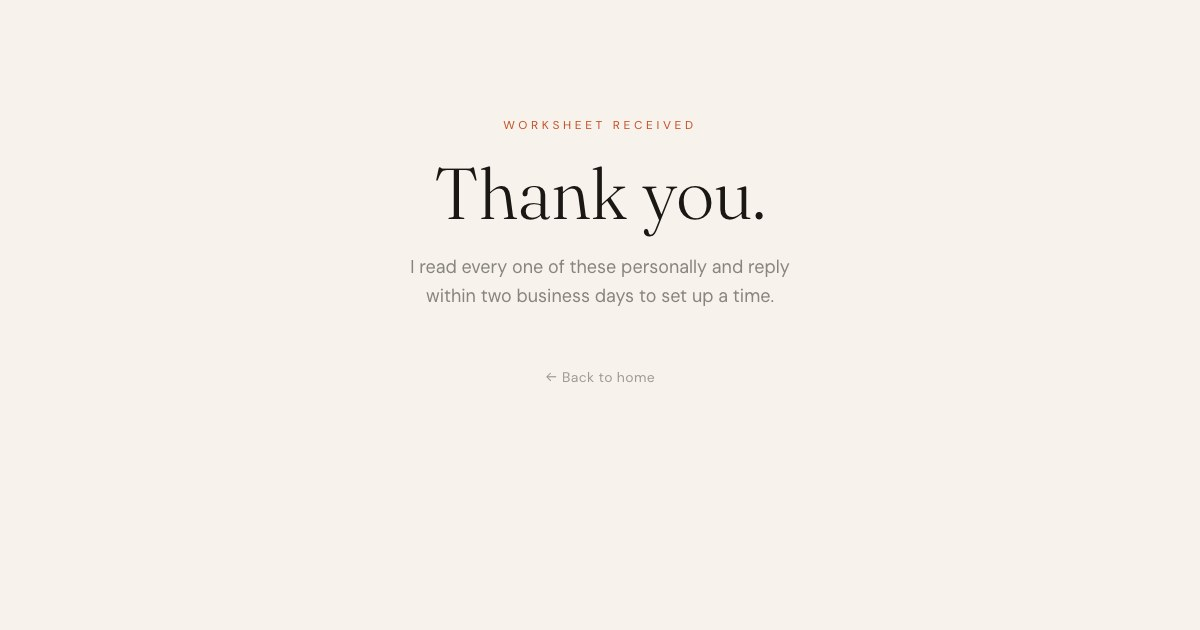
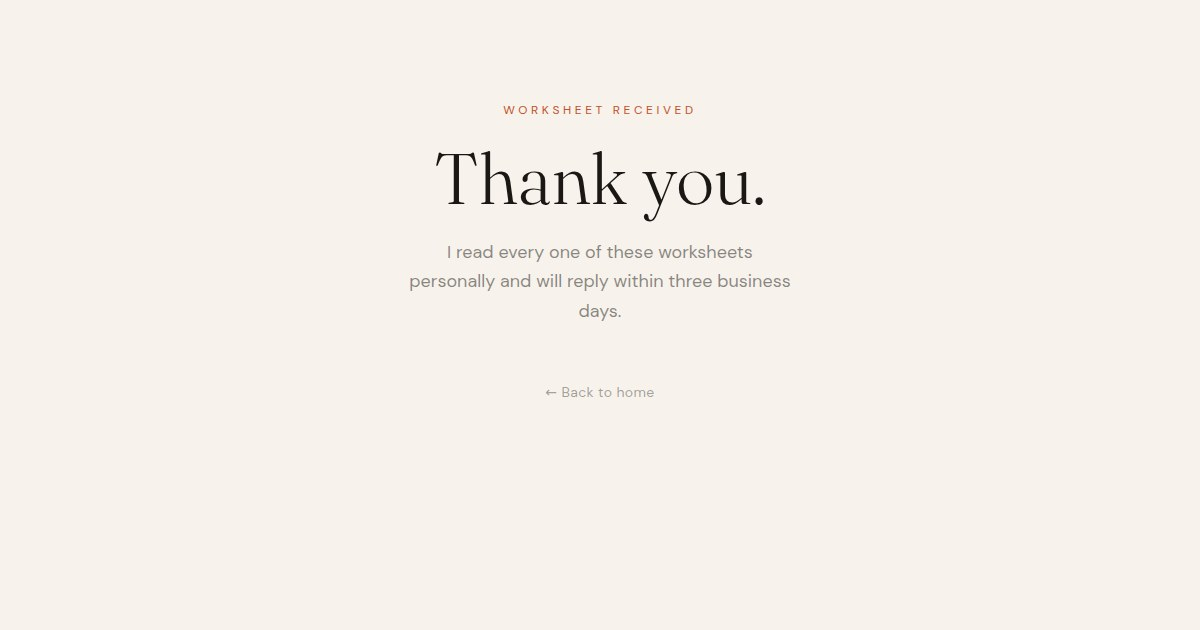
Revise archive worksheet copy per issue #352
Applies the copy edits requested in benstraw/chill-dogs#352 to the family
archive intake worksheet: reworks the intro and expectations panel, retitles
the section headings to title case, tightens several field labels, hints and
radio options, and trims the budget select to a single "More than $20,000"
top band. Removes the sibling line from the "why now" placeholder and the
third example from the audience placeholder. The privacy note moves from the
signature line up next to the submit button, where the reply window is now
three business days.

Obvious spelling in the issue text ("questionaire", "gueses", "necesssary")
is corrected — it is public-facing copy.

Also, on the same page:

- The submit button rendered invisible. Tailwind's preflight sets
  background-color:transparent on [type=submit], which outranks a bare
  `button` selector, so the CTA was paper on paper; the rule now names the
  attribute.
- The thanks page body and the page description repeated the old framing
  ("ten minutes", "two business days"), so they follow the new copy. The two
  OG cards are regenerated for the changed description.
- Registers /archive-worksheet/ in docs/site-system.yaml, which the page was
  missing from.

Claude-Session: https://claude.ai/code/session_01TWvscUwpW7yuXNsNetiEJC

diff --git a/layouts/archive-worksheet/list.html b/layouts/archive-worksheet/list.html
@@ -114,12 +114,15 @@ select{appearance:none;background-image:linear-gradient(45deg,transparent 50%,va
 
 /* --- submit --- */
 .actions{border-top:2px solid var(--ink);padding-top:1.5rem;margin-top:2.5rem}
-button{
+/* Tailwind's preflight sets background-color:transparent on [type=submit],
+   which outranks a bare `button` selector — name the attribute here or the
+   CTA renders invisible (paper on paper). */
+button[type=submit]{
   font-family:inherit;font-size:.95rem;font-weight:600;letter-spacing:.02em;
   background:var(--ink);color:var(--paper);border:none;border-radius:var(--radius);
   padding:.8rem 1.6rem;cursor:pointer;transition:background .15s
 }
-button:hover{background:var(--warm)}
+button[type=submit]:hover{background:var(--warm)}
 .after{font-size:.88rem;color:var(--ink-faint);margin:.9rem 0 0}
 .sig{margin-top:3rem;padding-top:1.25rem;border-top:1px solid var(--rule);font-size:.82rem;color:var(--ink-faint)}
 .sig a{color:var(--warm)}
@@ -145,17 +148,17 @@ button:hover{background:var(--warm)}
 <header class="masthead">
   <a class="brand" href="/">Arts-Link &middot; Family Archive</a>
   <h1>Project Worksheet</h1>
-  <p class="dek">Ten minutes here saves an hour on our call. Rough answers are fine — estimates and &ldquo;I don&rsquo;t know&rdquo; are both useful. Nothing you put down is binding.</p>
+  <p class="dek">Please fill out this questionnaire prior to our initial call. Estimates and rough guesses are fine. Nothing you put down is binding.</p>
 </header>
 
 <div class="expect">
   <h2>Before you start — what to expect</h2>
   <ul>
-    <li><strong>The first conversation is free.</strong> I&rsquo;ll review this worksheet, talk with you for about 45 minutes, and send back a written plan with real numbers.</li>
-    <li><strong>Most projects run $5,000–$8,000</strong> for my work, plus roughly $1,000–$2,500 paid directly to the scanning lab. Smaller collections cost less; we&rsquo;ll size yours together.</li>
-    <li><strong>Plan on 3–6 months end to end.</strong> Most of that is lab turnaround and your family&rsquo;s time, not mine.</li>
-    <li><strong>You never ship anything to me.</strong> I help you choose a lab and write the spec; your originals go straight there and come straight back to you.</li>
-    <li><strong>The work happens in stages,</strong> and you approve the price for each one before it starts. You can stop at any stage and still keep everything finished so far.</li>
+    <li><strong>The first conversation is free.</strong> I&rsquo;ll review this worksheet, talk with you for about 45 minutes, and submit a written plan with a fee structure.</li>
+    <li><strong>Most projects run $5,000–$8,000</strong> for my work, plus roughly $1,000–$2,500 paid directly to the scanning lab (if your material is not already scanned). Smaller collections cost less. We&rsquo;ll size yours together.</li>
+    <li><strong>Plan on 3–6 months end to end.</strong> Most of that is lab turnaround time and time spent by your family compiling material.</li>
+    <li><strong>You never ship anything to me.</strong> I help you choose a lab for scanning (if necessary) and write the spec. Your original material goes straight there and is returned straight back to you.</li>
+    <li><strong>The work happens in stages,</strong> and you approve the price for each stage before it starts. You can stop after any stage and you keep everything finished up to that point.</li>
   </ul>
 </div>
 
@@ -165,7 +168,7 @@ button:hover{background:var(--warm)}
 <input class="hp" type="text" name="_gotcha" tabindex="-1" autocomplete="off" aria-hidden="true">
 
 <section>
-  <div class="sec-head"><span class="num">01</span><h2 class="sec">Who you are</h2></div>
+  <div class="sec-head"><span class="num">01</span><h2 class="sec">Who You Are</h2></div>
   <div class="grid2">
     <div class="field"><label for="name">Your name</label><input type="text" id="name" name="name" required autocomplete="name"></div>
     <div class="field"><label for="email">Email</label><input type="email" id="email" name="email" required autocomplete="email"></div>
@@ -175,18 +178,18 @@ button:hover{background:var(--warm)}
     <div class="field"><label for="where">Where do you live?</label><input type="text" id="where" name="city_state" placeholder="City, State" autocomplete="address-level2"></div>
   </div>
   <div class="field">
-    <label for="materials_where">Where do the materials physically live right now?</label>
+    <label for="materials_where">Where are the materials located?</label>
     <input type="text" id="materials_where" name="materials_location" placeholder="My basement / my mother's house in Ohio / split between three siblings">
   </div>
   <div class="field">
-    <label for="who_decides">Who else needs to agree before this project goes ahead?</label>
+    <label for="who_decides">Who else needs to approve this project before it proceeds?</label>
     <input type="text" id="who_decides" name="decision_makers" placeholder="Just me / me and my two brothers / the family trust">
   </div>
 </section>
 
 <section>
-  <div class="sec-head"><span class="num">02</span><h2 class="sec">What you have</h2></div>
-  <p class="hint">Guess. A shoebox holds roughly 300–500 loose photos; a full album is usually 100–200. If a category doesn&rsquo;t apply, leave it at &ldquo;None.&rdquo;</p>
+  <div class="sec-head"><span class="num">02</span><h2 class="sec">What You Have</h2></div>
+  <p class="hint">Guesses and estimates are fine. A shoebox holds roughly 300–500 loose photos. A full album is usually 100–200 photos. If a category doesn&rsquo;t apply, leave it at &ldquo;None.&rdquo;</p>
   <div class="inv">
     <div class="inv-row"><div class="inv-label"><label for="qty_loose_photos">Loose printed photos</label><small>Boxes, envelopes, drawers</small></div>
       <select id="qty_loose_photos" name="qty_loose_photos"><option>None</option><option>Under 200</option><option>200–500</option><option>500–1,500</option><option>1,500–4,000</option><option>4,000–10,000</option><option>More than 10,000</option><option>No idea</option></select></div>
@@ -212,7 +215,7 @@ button:hover{background:var(--warm)}
 </section>
 
 <section>
-  <div class="sec-head"><span class="num">03</span><h2 class="sec">Condition</h2></div>
+  <div class="sec-head"><span class="num">03</span><h2 class="sec">Condition of Material</h2></div>
   <fieldset class="field">
     <legend>How would you describe the overall state of things?</legend>
     <div class="choices">
@@ -229,33 +232,33 @@ button:hover{background:var(--warm)}
 </section>
 
 <section>
-  <div class="sec-head"><span class="num">04</span><h2 class="sec">Why now</h2></div>
+  <div class="sec-head"><span class="num">04</span><h2 class="sec">Why Now</h2></div>
   <div class="field">
-    <label for="why">What&rsquo;s prompting this?</label>
-    <textarea id="why" name="why_now" placeholder="My father died last year and the boxes are in my garage. My mother is 88 and still remembers everyone. My siblings and I want the same thing for once."></textarea>
+    <label for="why">What is prompting this project?</label>
+    <textarea id="why" name="why_now" placeholder="My father died last year and the boxes are in my garage. My mother is 88 and still remembers everyone."></textarea>
   </div>
   <div class="grid2">
     <div class="field">
-      <label for="deadline">Is there a date this needs to be ready for?</label>
+      <label for="deadline">Is there a date by which this needs to be completed?</label>
       <input type="text" id="deadline" name="deadline" placeholder="Mom's 90th in June / no deadline">
     </div>
     <div class="field">
       <label for="audience">Who is the finished archive for?</label>
-      <input type="text" id="audience" name="audience" placeholder="Six cousins and their kids / just me / the whole extended family">
+      <input type="text" id="audience" name="audience" placeholder="Six cousins and their kids / just me">
     </div>
   </div>
 </section>
 
 <section>
-  <div class="sec-head"><span class="num">05</span><h2 class="sec">Who can name people</h2></div>
+  <div class="sec-head"><span class="num">05</span><h2 class="sec">Who Can Identify People</h2></div>
   <p class="hint">This is the single biggest factor in how a family archive turns out. Software can group faces; only a person can say who they are.</p>
   <fieldset class="field">
     <legend>Is there someone living who can identify people in these photos?</legend>
     <div class="choices">
-      <label class="choice"><input type="radio" name="identifiers" value="Yes, sharp and available"><span>Yes — and they&rsquo;re sharp and willing to sit down for it</span></label>
+      <label class="choice"><input type="radio" name="identifiers" value="Yes, sharp and available"><span>Yes, and they are willing to do it</span></label>
       <label class="choice"><input type="radio" name="identifiers" value="Yes, but limited"><span>Yes, but time or memory is limited <small>We should prioritize accordingly.</small></span></label>
       <label class="choice"><input type="radio" name="identifiers" value="Partially - between us"><span>Partially — between several of us we could piece it together</span></label>
-      <label class="choice"><input type="radio" name="identifiers" value="No one left"><span>No one left who knows <small>Not a dead end. Handwriting on the backs, dates, and locations still carry a lot.</small></span></label>
+      <label class="choice"><input type="radio" name="identifiers" value="No one left"><span>No one left who knows <small>Handwriting on the backs of photos providing dates and locations may still be beneficial.</small></span></label>
     </div>
   </fieldset>
   <div class="field">
@@ -265,15 +268,15 @@ button:hover{background:var(--warm)}
   <fieldset class="field">
     <legend>Roughly how much time can your family give to naming people?</legend>
     <div class="choices">
-      <label class="choice"><input type="radio" name="family_time" value="Several sessions"><span>We&rsquo;ll show up for several sessions — this is the fun part</span></label>
+      <label class="choice"><input type="radio" name="family_time" value="Several sessions"><span>We&rsquo;ll show up for several sessions. This is the fun part!</span></label>
       <label class="choice"><input type="radio" name="family_time" value="A couple of sessions"><span>A couple of sessions, realistically</span></label>
-      <label class="choice"><input type="radio" name="family_time" value="Very little"><span>Very little — please keep our involvement minimal</span></label>
+      <label class="choice"><input type="radio" name="family_time" value="Very little"><span>Very little. Please keep our involvement to a minimum.</span></label>
     </div>
   </fieldset>
 </section>
 
 <section>
-  <div class="sec-head"><span class="num">06</span><h2 class="sec">What you want at the end</h2></div>
+  <div class="sec-head"><span class="num">06</span><h2 class="sec">What You Want at the End</h2></div>
   <fieldset class="field">
     <legend>Pick whichever sounds closest.</legend>
     <div class="choices">
@@ -284,24 +287,23 @@ button:hover{background:var(--warm)}
     </div>
   </fieldset>
   <div class="field">
-    <label for="must_have">If only one thing gets finished, what is it?</label>
+    <label for="must_have">Which part of the project is your first priority?</label>
     <input type="text" id="must_have" name="must_have" placeholder="The 8mm reels of my parents' wedding">
   </div>
 </section>
 
 <section>
   <div class="sec-head"><span class="num">07</span><h2 class="sec">Budget</h2></div>
-  <p class="hint">Asked so I can propose something real rather than something aspirational. There&rsquo;s a sensible version of this project at most budgets — and if the number is too far apart, better that we both know today.</p>
+  <p class="hint">Please estimate so I can propose something realistic. There are versions of most projects at most budgets.</p>
   <div class="field">
-    <label for="budget">What range feels right for the whole project?</label>
+    <label for="budget">Price Range</label>
     <select id="budget" name="budget">
       <option>Not sure yet</option>
       <option>Under $2,500</option>
       <option>$2,500–$5,000</option>
       <option>$5,000–$10,000</option>
       <option>$10,000–$20,000</option>
-      <option>Over $20,000</option>
-      <option>Whatever it takes — this matters more than the cost</option>
+      <option>More than $20,000</option>
     </select>
   </div>
   <div class="field">
@@ -312,12 +314,12 @@ button:hover{background:var(--warm)}
 
 <div class="actions">
   <button type="submit">Send worksheet</button>
-  <p class="after">I read every one of these personally and reply within two business days to set up a time.</p>
+  <p class="after">I read every one of these worksheets personally and will reply within three business days. Your answers are used only to prepare your archive plan. Nothing is shared with anyone.</p>
 </div>
 
 </form>
 
-<p class="sig">Arts-Link &middot; <a href="https://www.arts-link.com/blog/family-archive/">arts-link.com/blog/family-archive</a><br>Your answers are used only to prepare your archive plan. Nothing is shared with anyone.</p>
+<p class="sig">Arts-Link &middot; <a href="https://www.arts-link.com/blog/family-archive/">arts-link.com/blog/family-archive</a></p>
 
 </div>
 {{ end }}

diff --git a/content/archive-worksheet/_index.md b/content/archive-worksheet/_index.md
@@ -1,4 +1,4 @@
 +++
 title = "Family Archive — Project Worksheet"
-description = "Ten minutes here on what you have, its condition, and what you want at the end — so the first call starts with a real plan instead of a blank page."
+description = "A short questionnaire on what you have, its condition, and what you want at the end — so the first call starts with a real plan instead of a blank page."
 +++

diff --git a/content/archive-worksheet/thanks/_index.md b/content/archive-worksheet/thanks/_index.md
@@ -3,5 +3,5 @@ title = "Thanks"
 description = "Worksheet received."
 type = "thanks"
 eyebrow = "Worksheet received"
-body = "I read every one of these personally and reply within two business days to set up a time."
+body = "I read every one of these worksheets personally and will reply within three business days."
 +++
